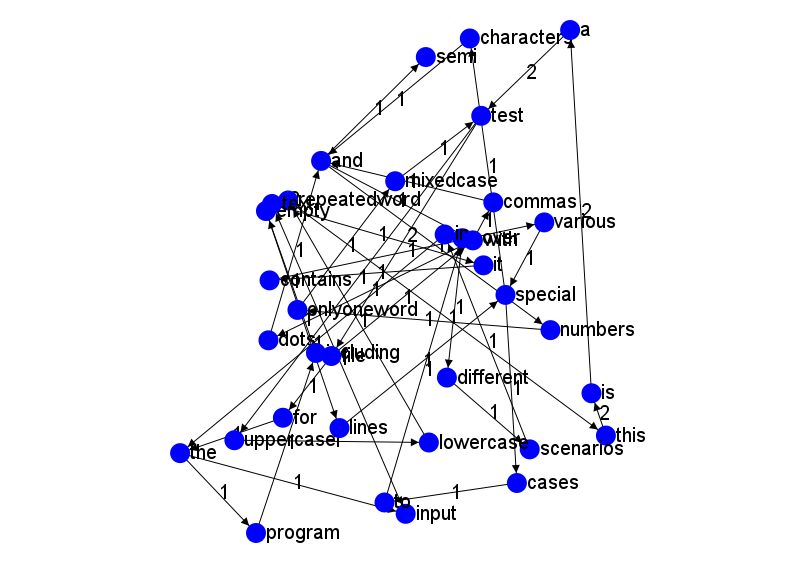
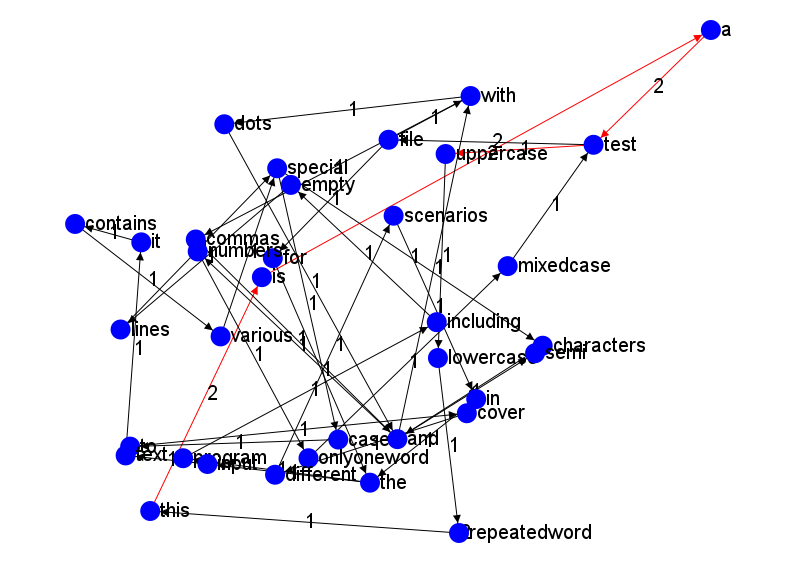
Finished white box test

diff --git a/src/test/java/TextGraphTest.java b/src/test/java/TextGraphTest.java
@@ -13,7 +13,6 @@ class TextGraphTest {
 	@BeforeEach
 	public void setUp() {
 		textGraph.inputGraph("src/main/java/input.txt");
-		textGraph.showDirectedGraph(null);
 	}
 
 	@Test
@@ -141,6 +140,75 @@ class TextGraphTest {
 		textGraph.calcShortestPath("semi", "and");
 
 		String expected = "No path from \"semi\" to \"and\"!\r\n";
+
+		assertEquals(expected, outContent.toString());
+	}
+
+	@Test
+	void testqueryBridgeWords(){
+		ByteArrayOutputStream outContent = new ByteArrayOutputStream();
+		System.setOut(new PrintStream(outContent));
+		textGraph.queryBridgeWords("dog", "test",true);
+
+		String expected = "No \"dog\" in the graph!\r\n";
+
+		assertEquals(expected, outContent.toString());
+	}
+
+	@Test
+	void testqueryBridgeWords2(){
+		ByteArrayOutputStream outContent = new ByteArrayOutputStream();
+		System.setOut(new PrintStream(outContent));
+		textGraph.queryBridgeWords("this", "cat",true);
+
+		String expected = "No \"cat\" in the graph!\r\n";
+
+		assertEquals(expected, outContent.toString());
+	}
+
+	@Test
+	void testqueryBridgeWords3(){
+		ByteArrayOutputStream outContent = new ByteArrayOutputStream();
+		System.setOut(new PrintStream(outContent));
+		// 新建一个空图
+		TextGraph textGraph1 = new TextGraph();
+		textGraph1.queryBridgeWords("this", "a",true);
+		String expected = "No \"this\" in the graph!\r\n";
+
+		assertEquals(expected, outContent.toString());
+	}
+
+	@Test
+	void testqueryBridgeWords4(){
+		ByteArrayOutputStream outContent = new ByteArrayOutputStream();
+		System.setOut(new PrintStream(outContent));
+		textGraph.queryBridgeWords("cases", "test",true);
+		String expected = "No bridge words from \"cases\" to \"test\"!\r\n";
+
+		assertEquals(expected, outContent.toString());
+	}
+
+	@Test
+	void testqueryBridgeWords5(){
+		ByteArrayOutputStream outContent = new ByteArrayOutputStream();
+		System.setOut(new PrintStream(outContent));
+		// 新建一个仅包含一个桥接词的图
+		TextGraph textGraph1 = new TextGraph();
+		textGraph1.inputGraph("src/main/java/input2.txt");
+		textGraph1.queryBridgeWords("this", "a",true);
+
+		String expected = "The bridge words from \"this\" to \"a\" are: is \r\n";
+
+		assertEquals(expected, outContent.toString());
+	}
+
+	@Test
+	void testqueryBridgeWords6(){
+		ByteArrayOutputStream outContent = new ByteArrayOutputStream();
+		System.setOut(new PrintStream(outContent));
+		textGraph.queryBridgeWords("this", "a",true);
+
+		String expected = "The bridge words from \"this\" to \"a\" are: is \r\n";
 
 		assertEquals(expected, outContent.toString());
 	}

diff --git a/src/main/java/TextGraph.java b/src/main/java/TextGraph.java
@@ -43,6 +43,7 @@ public class TextGraph {
   public TextGraph() {
     random = new SecureRandom();
     vertices = new HashSet<>();
+    adj = null;
     vertexCount = 0;
     edgeCount = 0;
     picNum = 0;
@@ -234,7 +235,7 @@ public class TextGraph {
       return null;
     }
     StringBuilder bridgeWords = new StringBuilder();
-    for (int i = 0; i <   vertexCount; i++) {
+    for (int i = 0; i < vertexCount; i++) {
       if (adj[v1][i] > 0 && adj[i][v2] > 0) {
         bridgeWords.append(vertices.toArray()[i]).append(" ");
       }
